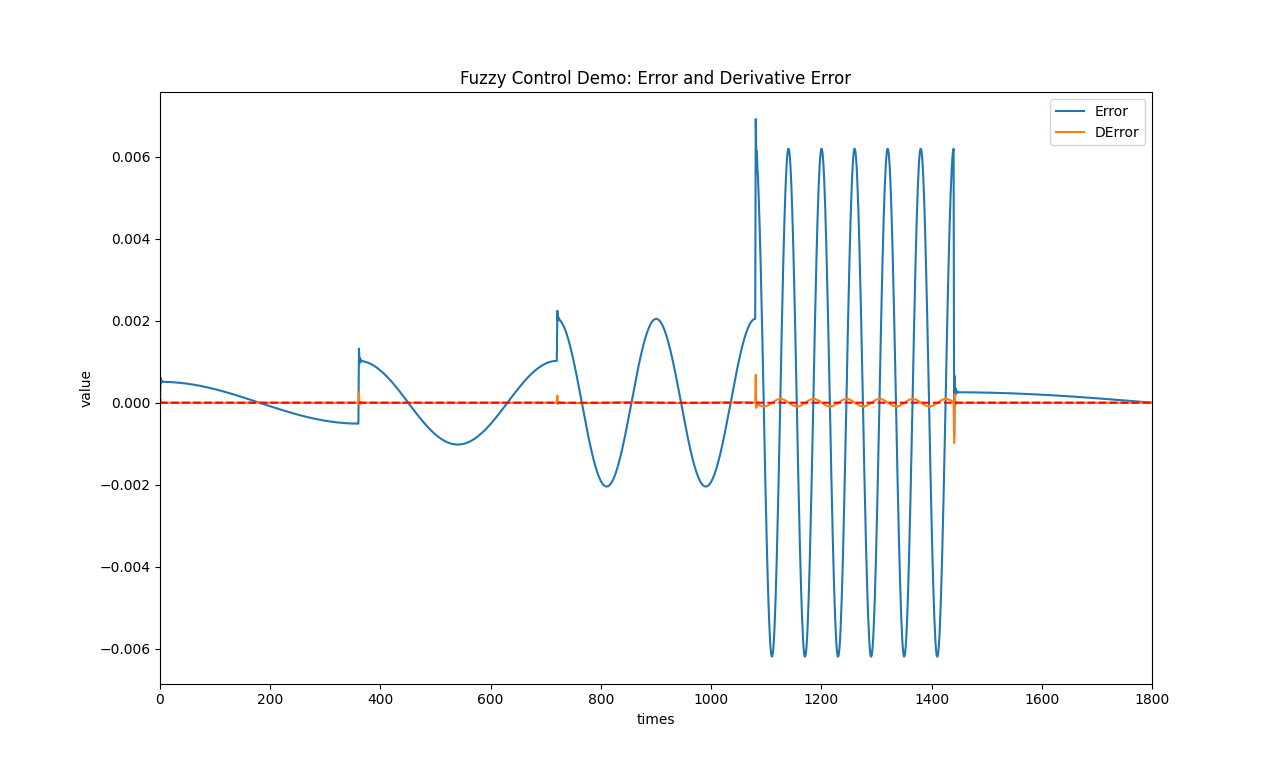
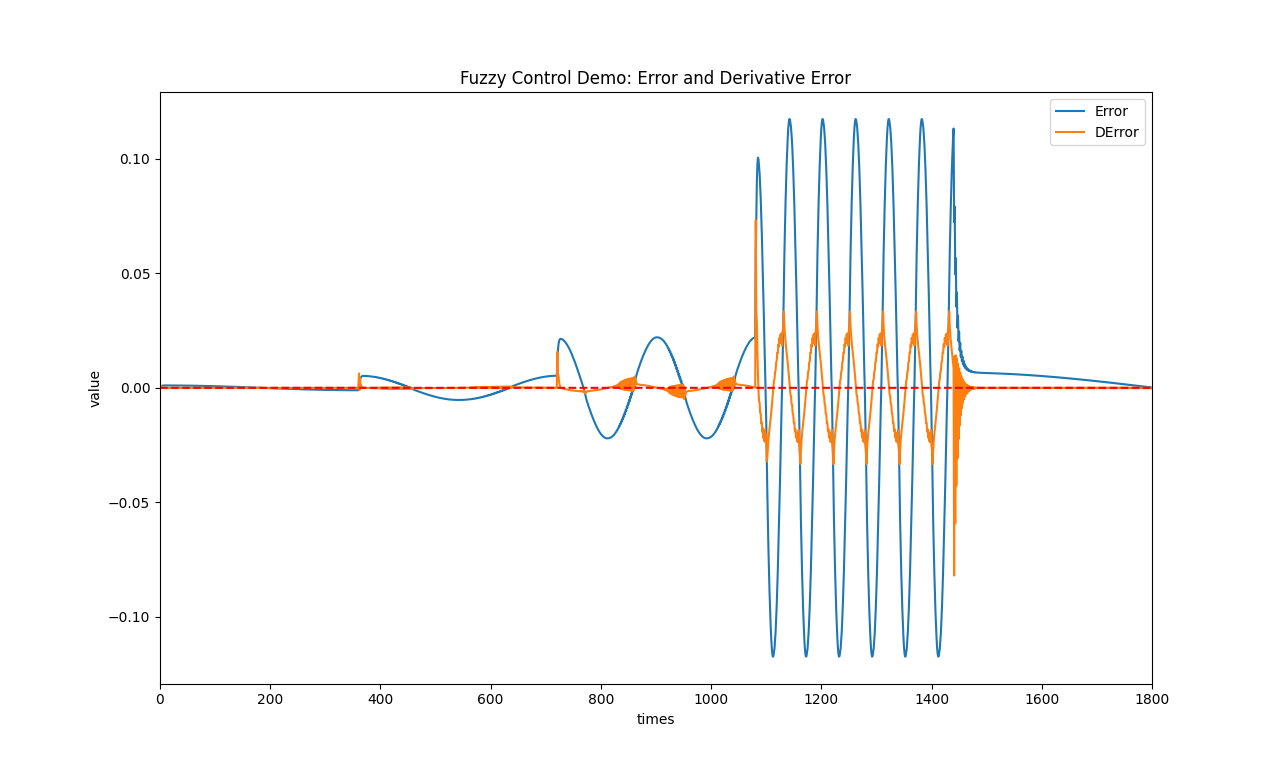
fix: fix the bound violation issue

diff --git a/src/fuzzy_logic.cc b/src/fuzzy_logic.cc
@@ -24,7 +24,7 @@ void Fuzzification::init(const scalar bound,
 {
     membership_->setMembershipParam(type, input_params, params_num);
     bound_ = bound;
-    factor_ = static_cast<scalar>(membership_->getDiscourseSize()) / bound_;
+    factor_ = static_cast<scalar>(membership_->getDiscourseSize() / 2) / bound_;
     if (reverse) {
         factor_ = 1 / factor_;
     }
@@ -39,9 +39,10 @@ void Fuzzification::fuzzify(scalar input) {
 
     for (size_t idx = 0; idx < membership_->getDiscourseSize(); idx++) {
         premise = membership_->calculate(input, membership_->getParamSet(idx));
+        // dbgmsgln("[fuzzify] %s - premise: %.3f, idx: %llu, input: %.3f", getName().c_str(), premise.value(), idx, input);
         if (premise != std::nullopt && fabs(premise.value()) >= fc::eps) {
             premise_pairs_.emplace_back(std::make_pair(premise.value(), idx));
-            dbgmsgln("[fuzzify] %s - premise: %.3f, discourse ID: %llu", getName().c_str(), premise.value(), idx);
+            dbgmsgln("[fuzzify] %s - input: %.3f premise: %.3f, discourse ID: %llu", getName().c_str(), input, premise.value(), idx);
         }
     }
 }
@@ -52,7 +53,8 @@ void Fuzzification::setFactor(const scalar ratio, const bool reverse) {
         return;
     }
 
-    factor_ =  ratio * static_cast<scalar>(membership_->getDiscourseSize()) / bound_;
+    scalar input_ratio = ratio > fc::eps ? ratio : 0.1;
+    factor_ = input_ratio * static_cast<scalar>(membership_->getDiscourseSize() / 2) / bound_;
     if (reverse) {
         factor_ = 1 / factor_;
     }
@@ -61,6 +63,11 @@ void Fuzzification::setFactor(const scalar ratio, const bool reverse) {
 void Fuzzification::setBound(scalar bound) {
     if (state_ != FuzzyProcess::FuzzyInit) {
         dbgmsgln("[fuzzification] please init first");
+        return;
+    }
+
+    if (bound < -eps) {
+        dbgmsgln("[fuzzification] 'bound' needs to be positive");
         return;
     }
 
@@ -92,14 +99,42 @@ FuzzyLogic::FuzzyLogic(int resolution)
 
 FuzzyLogic::~FuzzyLogic() {}
 
+scalar sign(scalar x) {
+    if (x >= eps) {
+        return 1.0;
+    } else if (x <= -eps) {
+        return -1.0;
+    } else {
+        return 0.0;
+    }
+}
+
+void FuzzyLogic::rangeCheck(scalar& input, Membership* ptr) {
+    if (input > ptr->getMaximum()) {
+        input = ptr->getMaximum();
+    }
+
+    if (input < ptr->getMinimum()) {
+        input = ptr->getMinimum();
+    }
+}
+
 static size_t iter = 0;
 scalar FuzzyLogic::algo(Control_t input, bool show_control_info) {
-    scalar output;
+    scalar output, err, d_err;
 
+    // TODO: input may out of max bound, acquiring limitation for scaling.
     // calculate the basic control params and normalize them to discourse range
-    control_.err   = e->getFactor() * (input.target - input.actual);
-    control_.d_err = ec->getFactor() * (control_.err - control_.prev_err);
-    control_.prev_err = control_.err;
+    err   = input.target - input.actual;
+    d_err = err - control_.prev_err;
+
+    control_.err      = e->getFactor() * (fabs(err) > e->getBound() ? sign(err) * e->getBound() : err);
+    control_.d_err    = ec->getFactor() * (fabs(d_err) > ec->getBound() ? sign(err) * ec->getBound() : d_err);
+    control_.prev_err = fabs(err) > e->getBound() ? sign(err) * e->getBound() : err;
+
+    // ensure the factor will not make e or ec out of range
+    rangeCheck(control_.err, e->membership_.get());
+    rangeCheck(control_.d_err, ec->membership_.get());
 
     e->fuzzify(control_.err);
     ec->fuzzify(control_.d_err);
@@ -203,9 +238,12 @@ void FuzzyLogic::setFuzzyRules(const Matrix &rule_table) {
 void FuzzyLogic::getInfo(void) {
     std::cout << std::endl;
     infomsgln("Fuzzy logic controller info:");
-    infomsgln("=> discourse e:  [%.3f, %.3f]", -e->getBound(), e->getBound());
-    infomsgln("=> discourse ec: [%.3f, %.3f]", -ec->getBound(), ec->getBound());
-    infomsgln("=> discourse u:  [%.3f, %.3f]", -u->getBound(), u->getBound());
+    infomsgln("=> discourse e:  [%.3f, %.3f], min-max[%.2f, %.2f]",
+        -e->getBound(), e->getBound(), e->membership_->getMinimum(), e->membership_->getMaximum());
+    infomsgln("=> discourse ec: [%.3f, %.3f], min-max[%.2f, %.2f]",
+        -ec->getBound(), ec->getBound(), e->membership_->getMinimum(), e->membership_->getMaximum());
+    infomsgln("=> discourse u:  [%.3f, %.3f], min-max[%.2f, %.2f]",
+        -u->getBound(), u->getBound(), e->membership_->getMinimum(), e->membership_->getMaximum());
     infomsgln("=> error quantifying factor [Ke]:             %.4f", e->getFactor());
     infomsgln("=> derivative error quantifying factor [Kec]: %.4f", ec->getFactor());
     infomsgln("=> output scaling factor [Ku]:                %.4f", u->getFactor());

diff --git a/src/demo.cc b/src/demo.cc
@@ -51,7 +51,7 @@ int main (int argc,char *argv[]) {
     // fuzzy.ec->init(200, false, fc::membershipType::Trapezoid, trapezoid_params, TRAPEZOID_PARAMS_NUM);
     // fuzzy.u->init(30, true, fc::membershipType::Gaussian, gaussian_params, GAUSSIAN_PARAMS_NUM);
     fuzzy.ec->init(50, false, fc::membershipType::Triangle, triangle_params, TRIANGLE_PARAMS_NUM);
-    fuzzy.u->init(30, true, fc::membershipType::Triangle, triangle_params, TRIANGLE_PARAMS_NUM);
+    fuzzy.u->init(50, true, fc::membershipType::Triangle, triangle_params, TRIANGLE_PARAMS_NUM);
 
     size_t rows = fuzzy.e->membership_->getDiscourseSize();
     size_t cols = fuzzy.ec->membership_->getDiscourseSize();
@@ -73,8 +73,8 @@ int main (int argc,char *argv[]) {
     fuzzy.ec->plotMembershipFunctions();
     fuzzy.u->plotMembershipFunctions();
 
-    // DON'T CHANGE FACTOR RATIO OUT OF RANGE [0.5, 2.0]!
-    fuzzy.u->setFactor(0.5, true);
+    // DON'T CHANGE FACTOR RATIO OUT OF RANGE!
+    fuzzy.u->setFactor(2.0, true);
 
     fuzzy.getInfo();
 
@@ -90,7 +90,7 @@ int main (int argc,char *argv[]) {
         if (i == 50) {
             control.target = 100.0;
         } else if (i == 100) {
-            control.target = 80.0;
+            control.target = -50.0;
         } else if (i == 200) {
             control.target = 40.0;
         }
@@ -107,15 +107,15 @@ int main (int argc,char *argv[]) {
     const int times = 5 * 360;
     for (int i = 0; i < times; i++) {
         if (i <= 360) {
-            control.target = sin(i * M_PI / 360);
+            control.target = 2 * sin(i * M_PI / 360);
         } else if (i <= 2 * 360) {
-            control.target = sin(i * M_PI / 180);
+            control.target = 5 * sin(i * M_PI / 180);
         } else if (i <= 3 * 360) {
-            control.target = sin(i * M_PI / 90);
+            control.target = 10 * sin(i * M_PI / 90);
         } else if (i <= 4 * 360) {
-            control.target = sin(i * M_PI / 30);
+            control.target = 15 * sin(i * M_PI / 30);
         } else if (i <= 5 * 360) {
-            control.target = sin(i * M_PI / 720);
+            control.target = 25 * sin(i * M_PI / 720);
         }
         control.actual += fuzzy.algo(control, true);
     }

diff --git a/src/membership.cc b/src/membership.cc
@@ -33,7 +33,7 @@ std::optional<scalar> Membership::calculate(const scalar input, const std::vecto
             throw std::invalid_argument("[membership error] set membership type first");
     }
 
-    if (ret != fc::nan) {
+    if (ret != fc::nan && ret != fc::inf) {
         return ret;
     }
 
@@ -61,6 +61,14 @@ Range Membership::calculateRange(const membershipType type, const std::vector<sc
             throw std::invalid_argument("[membership error] set membership type first");
     }
 
+    if (range.first < minimum_) {
+        minimum_ = range.first;
+    }
+
+    if (range.second > maximum_) {
+        maximum_ = range.second;
+    }
+
     return range;
 }
 
@@ -78,6 +86,8 @@ void Membership::setMembershipParam(const membershipType type,
 
     type_ = type;
     discourse_size_ = params_num / size;
+    minimum_ = std::numeric_limits<scalar>::max();
+    maximum_ = std::numeric_limits<scalar>::min();
 
     for (uint8_t idx = 1; idx <= params_num; idx++) {
         param_set.emplace_back(input_params[idx - 1]);
@@ -114,16 +124,20 @@ scalar Membership::triangle(scalar x, scalar vertexA, scalar vertexB, scalar ver
     }
 
     if (Operation::isLessThan(x, vertexB)) {
-        if (vertexA == -fc::inf) {
+        if (fabs(vertexA) == fc::inf) {
             return height_ * 1.0;
         }
         return height_ * (x - vertexA) / (vertexB - vertexA);
     }
-    if (vertexC == fc::inf) {
-        return height_ * 1.0;
+
+    if (Operation::isGreaterThan(x, vertexB)) {
+        if (fabs(vertexC) == fc::inf) {
+            return height_ * 1.0;
+        }
+        return height_ * (vertexC - x) / (vertexC - vertexB);
     }
 
-    return height_ * (vertexC - x) / (vertexC - vertexB);
+    return fc::nan;
 }
 
 
@@ -196,4 +210,12 @@ membershipType Membership::getType(void) {
 
 const std::string& Membership::getName(void) {
     return name_;
+}
+
+scalar Membership::getMinimum(void) {
+    return minimum_;
+}
+
+scalar Membership::getMaximum(void) {
+    return maximum_;
 }

diff --git a/include/fuzzy/membership.h b/include/fuzzy/membership.h
@@ -41,6 +41,8 @@ class Membership {
         const Range getRange(size_t discourse_id);
         membershipType getType(void);
         const std::string& getName(void);
+        scalar getMinimum(void);
+        scalar getMaximum(void);
     private:
         /**
          * @brief Compute membership function value at \f$x\f$
@@ -119,6 +121,8 @@ class Membership {
         size_t discourse_size_;
         std::vector<std::vector<scalar>> params_;
         std::vector<Range> params_range_;
+        scalar minimum_;
+        scalar maximum_;
 };
 }
 

diff --git a/include/fuzzy/fuzzy_logic.h b/include/fuzzy/fuzzy_logic.h
@@ -107,6 +107,7 @@ class FuzzyLogic {
         void inference(void);
         scalar defuzzify(void);
         CentroidPair centroid(size_t rule_id, scalar truncation_premise);
+        void rangeCheck(scalar& input, Membership* ptr);
 
         int resolution_;
         Matrix rule_table_;

diff --git a/include/utils/base.h b/include/utils/base.h
@@ -87,7 +87,7 @@ namespace fc {
 /* represent the Not-A-Number and infinity value */
 const scalar nan = std::numeric_limits<scalar>::quiet_NaN();
 const scalar inf = std::numeric_limits<scalar>::infinity();
-const scalar eps = 1e-6;
+const scalar eps = 1e-7;
 
 }
 

diff --git a/README.md b/README.md
@@ -64,12 +64,12 @@ add_definitions(
 
 ```bash
 [INFO]Fuzzy logic controller info:
-[INFO]=> discourse e:  [-100.000, 100.000]
-[INFO]=> discourse ec: [-50.000, 50.000]
-[INFO]=> discourse u:  [-30.000, 30.000]
-[INFO]=> error quantifying factor [Ke]:             0.0700
-[INFO]=> derivative error quantifying factor [Kec]: 0.1400
-[INFO]=> output scaling factor [Ku]:                8.5714
+[INFO]=> discourse e:  [-100.000, 100.000], min-max[-3.00, 3.00]
+[INFO]=> discourse ec: [-50.000, 50.000], min-max[-3.00, 3.00]
+[INFO]=> discourse u:  [-50.000, 50.000], min-max[-3.00, 3.00]
+[INFO]=> error quantifying factor [Ke]:             0.0300
+[INFO]=> derivative error quantifying factor [Kec]: 0.0600
+[INFO]=> output scaling factor [Ku]:                8.3333
 ```
 
 <table>
